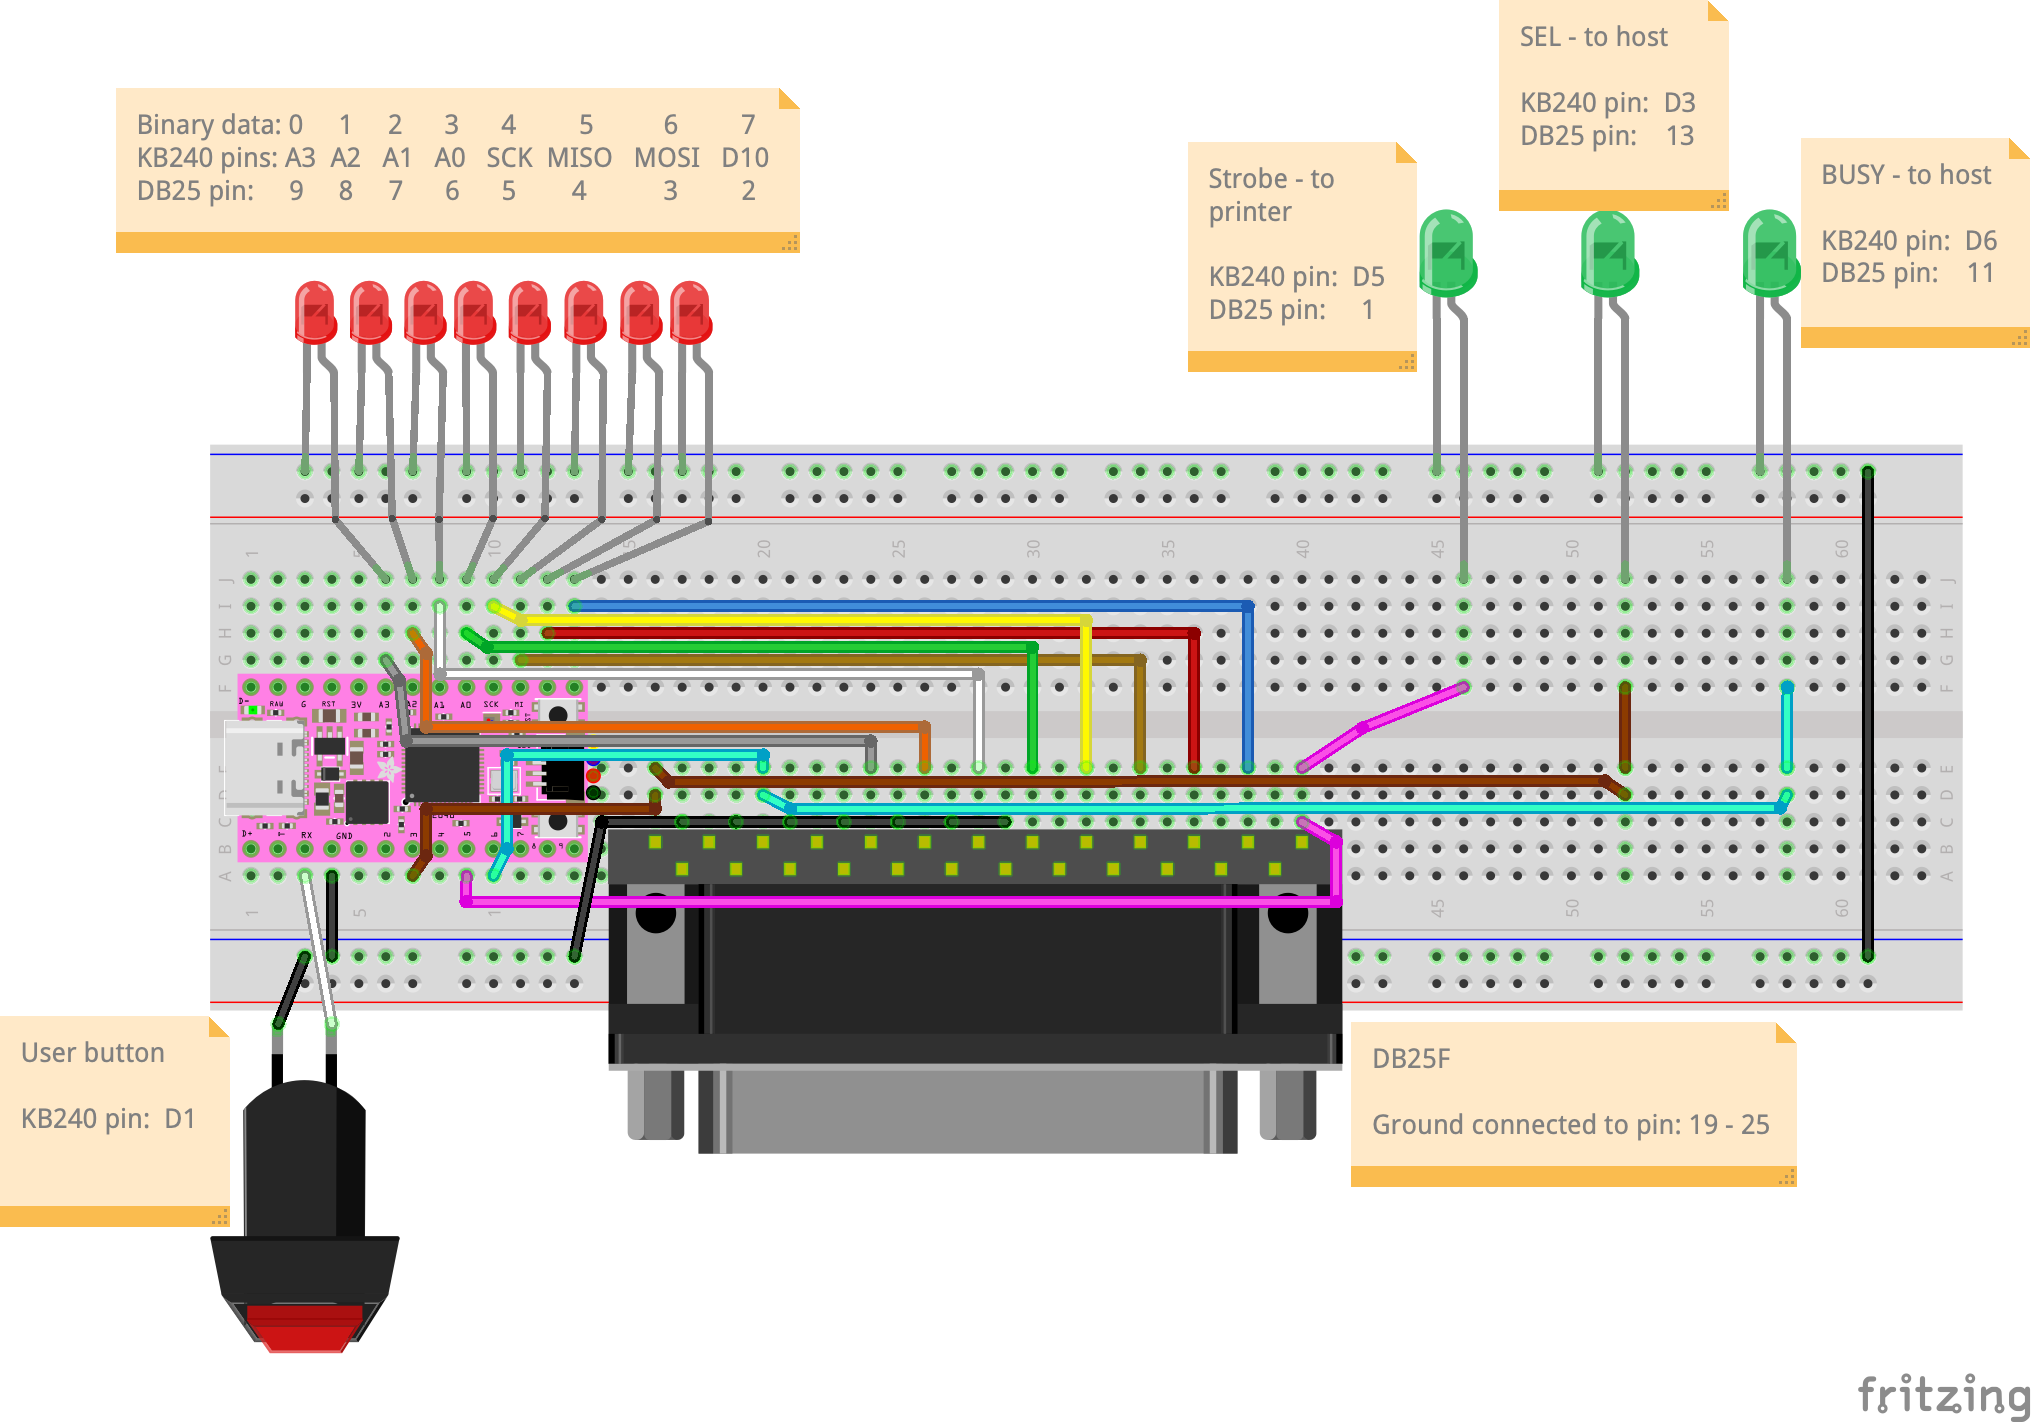
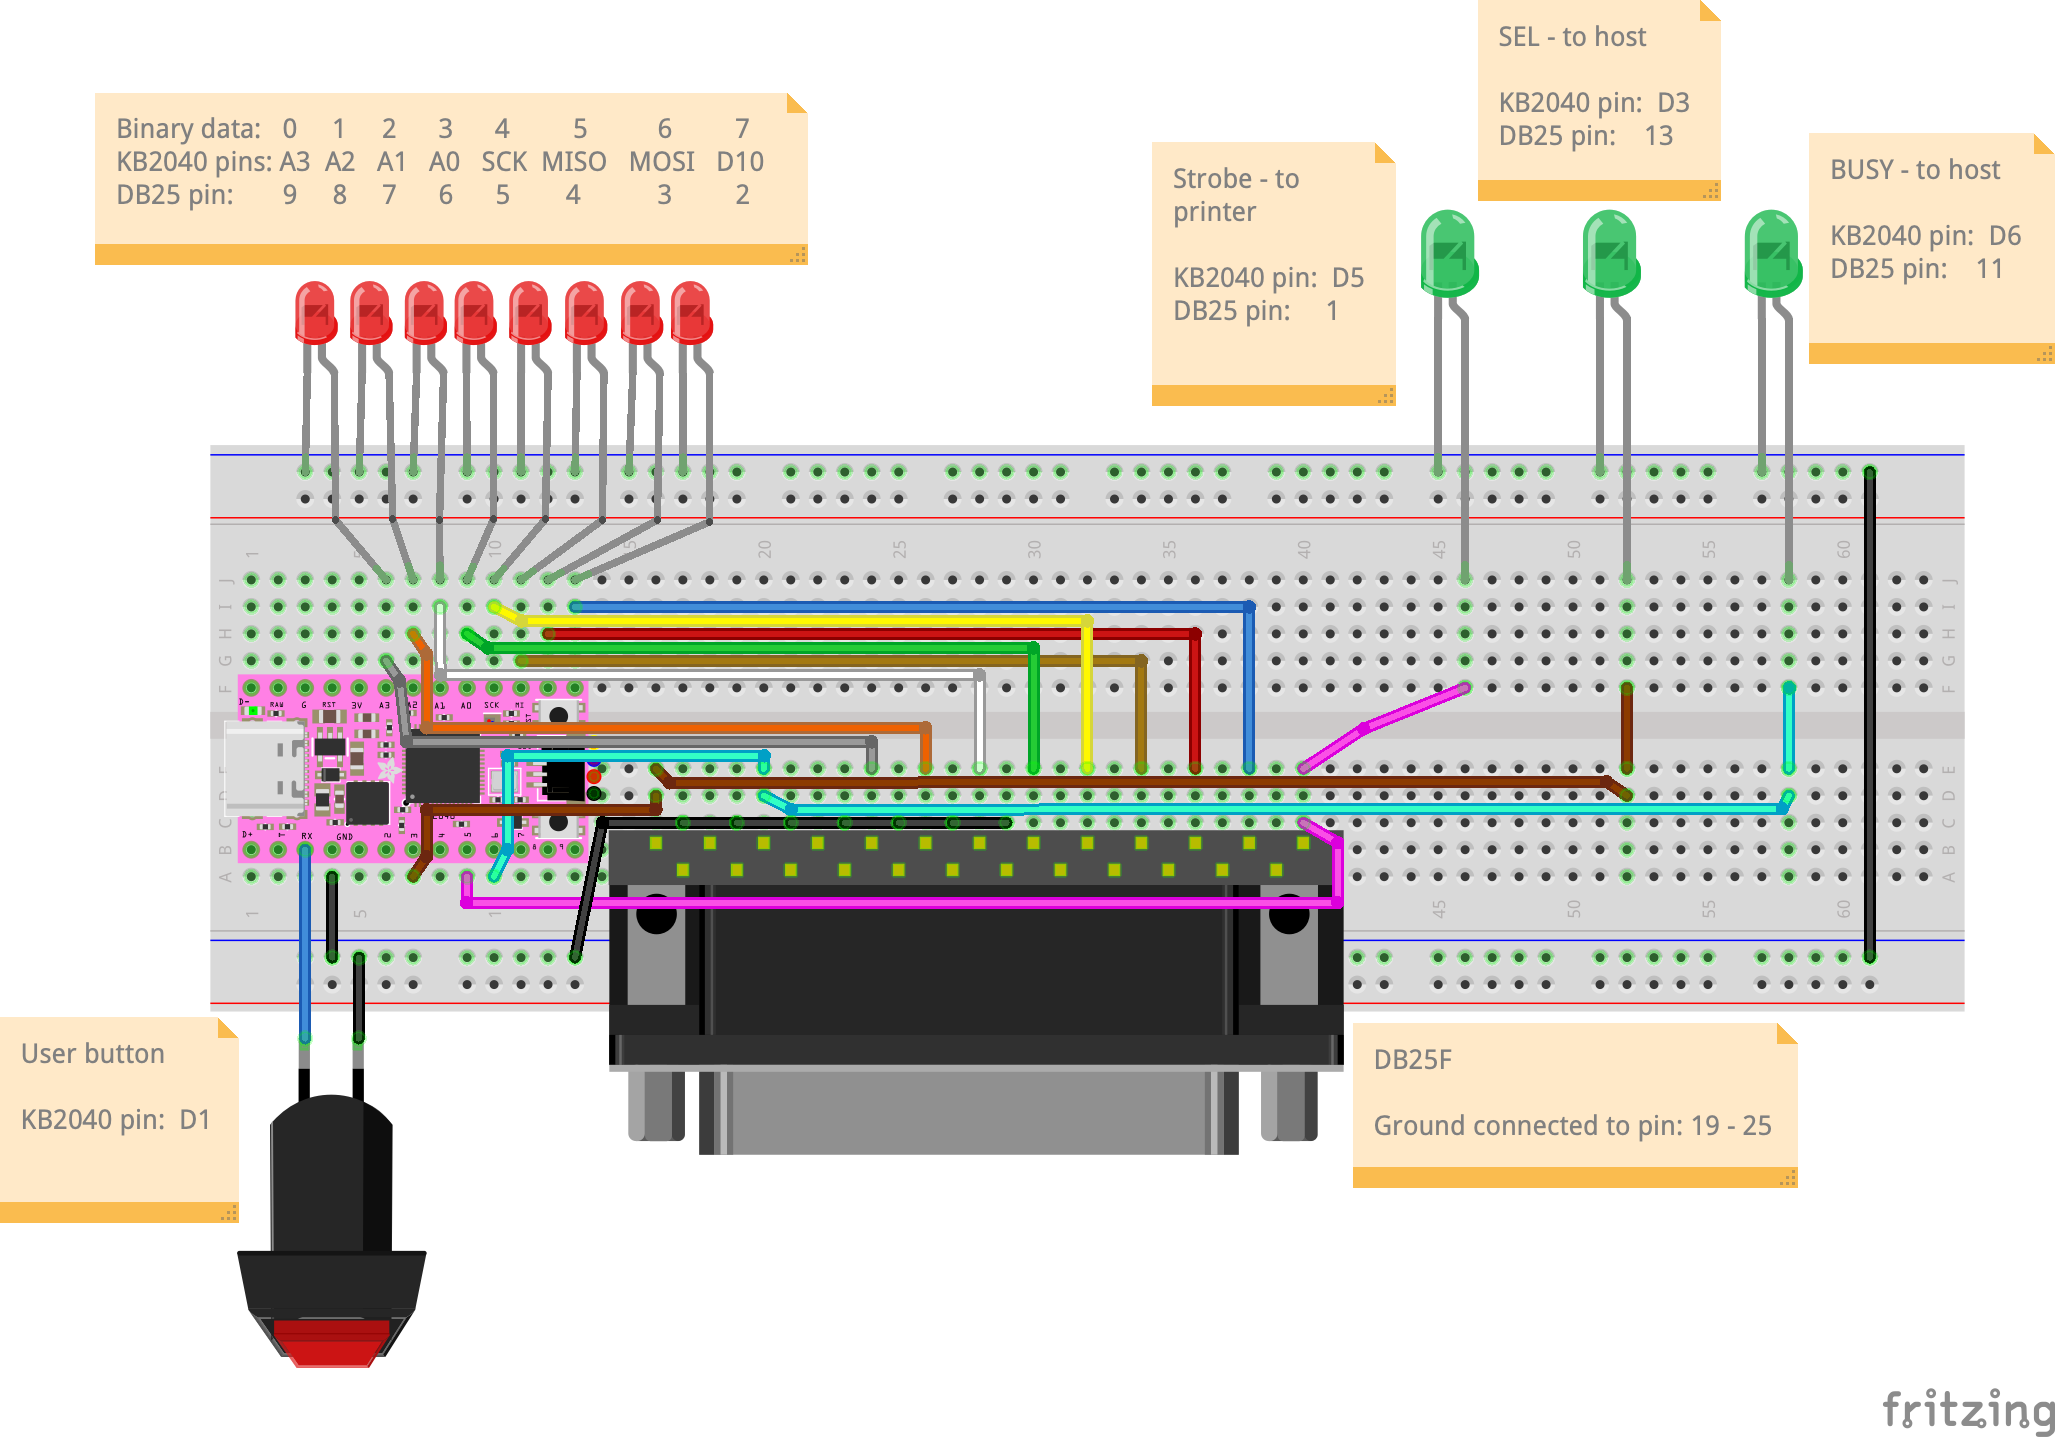
updated code.py with external user button

Changed region(s): [[0.0, 0.0, 1.0, 0.9592], [0.8982, 0.9592, 1.0, 1.0]]

diff --git a/typey.py b/typey.py
@@ -5,11 +5,12 @@ from time import sleep
 class TypeManager:
     """class to manage data to and from printer"""
 
-    def __init__(self, pins, busy_signal, sel_signal, strobe_signal):
+    def __init__(self, pins, busy_signal, sel_signal, strobe_signal, button):
         self.pins = pins
         self.busy_signal = busy_signal
         self.sel_signal = sel_signal
         self.strobe_signal = strobe_signal
+        self.button = button
 
     def resetPins(self):
         for pin in self.pins:
@@ -18,24 +19,25 @@ class TypeManager:
     def sendChar(self, char, wait=1):
         data = [bin(binary) for binary in bytearray(char)]
         binary_data = data[0].replace('b', '')
-        # we reverse the binary data so that 4bit chars load the correct pins
+        # reverse the binary data to match D[7:0] alignment of pins list
         for bin_val, pin_val in zip(reversed(binary_data), self.pins):
             pin_val.value = int(bin_val)
-        print("char:", char, "-", "binary data ready:", binary_data)
+        # print("char:", char, "-", "binary data ready:", binary_data)
         sleep(0.0005*wait)
-        print("strobe start")
+        # print("strobe start")
         self.strobe_signal.value = False
         sleep(0.0005*wait)
         self.strobe_signal.value = True
-        print("strobe end\n")
+        # print("strobe end\n")
         sleep(0.0005*wait)
         self.resetPins()
 
     def sendText(self, text, extra_beeps=False, beep_count=5):
-        count = len(text)-1
+        count = len(text)
         position = 0
         sleep(0.005)
-        while position <= count:
+        while position < count:
+            self.button.update()
             if not self.busy_signal.value:
                 sleep(0.0005)
                 self.sendChar(text[position])
@@ -43,6 +45,6 @@ class TypeManager:
                 if extra_beeps and (position % beep_count) == 0:
                     self.sendChar("\a")  # ASCII Bell (BEL)
                     print("beep!")
-            if not self.sel_signal.value:
+            if not self.sel_signal.value or self.button.long_press:
                 print("bye!")
                 break

diff --git a/code.py b/code.py
@@ -1,12 +1,12 @@
-from board import A3, A2, A1, A0, SCK, MISO, MOSI, D10, D5, D6, D3, BUTTON
+from board import A3, A2, A1, A0, SCK, MISO, MOSI, D10, D5, D6, D3, D1
 from digitalio import DigitalInOut, Direction, Pull
 from adafruit_debouncer import Button
 from typey import TypeManager
 
-# user button
-button = DigitalInOut(BUTTON)
+# user switch as Debounced Button
+button = DigitalInOut(D1)
 button.switch_to_input(pull=Pull.UP)
-switch = Button(button, long_duration_ms=500)
+switch = Button(button, long_duration_ms=600)
 
 # BUSY high informs host that printer is busy and should wait before next data
 BUSY = DigitalInOut(D6)
@@ -36,16 +36,17 @@ for num, pin in enumerate(board_pin_list.copy()):
     board_pin_list[num].direction = Direction.OUTPUT
     board_pin_list[num].value = 0
 
-typeWriter = TypeManager(board_pin_list, BUSY, SEL, STROBE)
+typeWriter = TypeManager(board_pin_list, BUSY, SEL, STROBE, switch)
 
 story = "not a story...yet!\n\n\n"
 folder = "/stories/"
 while True:
-    # print("hey")
+    # update switch and check for a button press, and if printer is present
     switch.update()
     if SEL.value and switch.fell:
         try:
             with open(folder+'2_MERCEDES.txt', 'r') as reader:
+                # the entire text file is dumped into a string
                 story = reader.read()
             typeWriter.sendText(story)
         except OSError:
